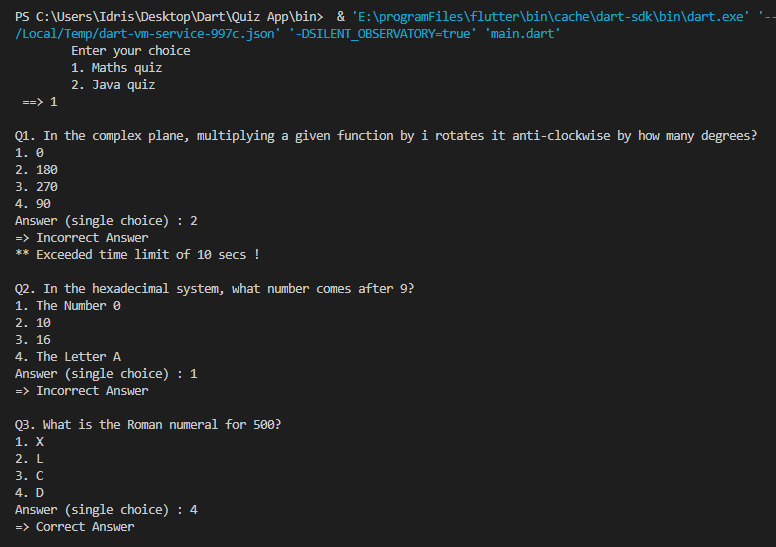
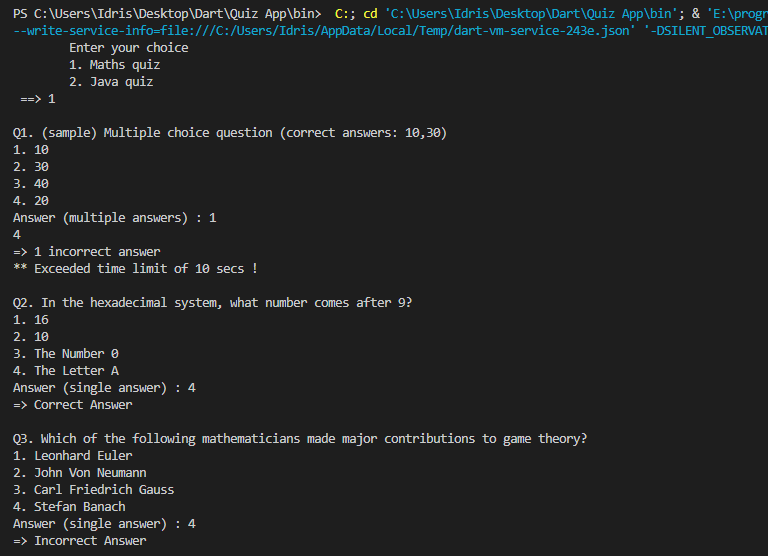
build complete

diff --git a/Topic.dart b/Topic.dart
@@ -5,10 +5,10 @@ import 'QuestionBankJSON.dart' as quesBank;
 import 'QuestionModel.dart' as QuestionBP;
 
 int maxTime = 10; //max time allowed per question in seconds
-int weightage= 1; //max mark for one question (one option)
+int weightage = 1; //max mark for one question (one option)
 
 abstract class Topic {
-  //takes JSON string and returns list of shuffled question according to blueprint
+  //takes JSON string and returns list of shuffled question according to QuestionModel
   List<QuestionBP.Question> loadQuestions(List<dynamic> questions) {
     late List<QuestionBP.Question> questList = [];
 
@@ -36,7 +36,7 @@ abstract class Topic {
     int maxScore = 0, score = 0;
     int quesNo = 0;
 
-    int renderQuest(var questObj) {
+    int renderQuest(var questObj) { //displays question and returns score for each question
       int noOfOpts = questObj.answers.length;
 
       print("\nQ${++quesNo}. ${questObj.question}");
@@ -47,8 +47,9 @@ abstract class Topic {
 
       if (noOfOpts == 0) {
         late int selected;
-        stdout.write("Answer (single choice) : ");
+        stdout.write("Answer (single answer) : ");
         selected = int.parse(stdin.readLineSync()!);
+        maxScore = maxScore + 1;
         if (selected <= 4 &&
             questObj.options[selected - 1] == questObj.answer) {
           // score = correctAns(score);
@@ -58,9 +59,8 @@ abstract class Topic {
           // score = incorrectAns(score);
           print("=> Incorrect Answer");
         }
-        maxScore += 1;
       } else {
-        stdout.write("Answer (multiple choice) : ");
+        stdout.write("Answer (multiple answers) : ");
         List<int> selected = [];
         for (var i = 0; i < noOfOpts; i++) {
           selected.add(int.parse(stdin.readLineSync()!));
@@ -73,6 +73,7 @@ abstract class Topic {
               matched++;
           }
         }
+        maxScore = maxScore + noOfOpts;
         if (matched == noOfOpts) {
           // score = correctAns(score);
           print("=> Correct Answer");
@@ -80,20 +81,18 @@ abstract class Topic {
           // score = incorrectAns(score);
           print("=> ${noOfOpts - matched} incorrect answer");
         }
-        maxScore += noOfOpts;
         return matched;
       }
       return 0;
     }
 
-    for (var questObj in questionList) {
+    for (var questObj in questionList) { // Quiz begins here
       final stopwatch = Stopwatch()..start();
       int scored = renderQuest(questObj);
       int timeTaken = stopwatch.elapsed.inSeconds;
-      if(timeTaken > maxTime){
+      if (timeTaken > maxTime) {
         print("** Exceeded time limit of ${maxTime} secs !");
-      }
-      else{
+      } else {
         score += scored;
       }
     }
@@ -103,15 +102,15 @@ abstract class Topic {
     for (var questObj in questionList) {
       print("\nQ${++quesNo}. ${questObj.question}");
 
-      if(questObj.answers.length == 0)
+      if (questObj.answers.length == 0)
         print("Ans. ${questObj.answer}");
-      else{
+      else {
         for (var ans in questObj.answers) {
-        print("Ans. ${ans}");
+          print("Ans. ${ans}");
         }
       }
     }
-    return {'scored': score*weightage, 'outOf': maxScore*weightage};
+    return {'scored': (score * weightage), 'outOf': (maxScore * weightage)};
   }
 
   Map<String, int> displayQuestions();
@@ -120,7 +119,8 @@ abstract class Topic {
 abstract class Result {
   void getMarks();
 
-  int correctAns(int score); // functions called when option is correct/incorrect
+  int correctAns(
+      int score); // functions called when option is correct/incorrect
   int incorrectAns(int score);
 }
 
@@ -161,11 +161,39 @@ class Math extends Topic implements Result {
   }
 }
 
-class Java {
-  Map<String, dynamic> javaQues = {};
+class Java extends Topic implements Result {
+  var javaQues = json.decode(quesBank.qb.javaQuesJSON)['results'];
 
   Java() {
-    javaQues = json.decode(quesBank.qb.javaQuesJSON) as Map<String, dynamic>;
-    print("inside java");
+    getMarks();
+  }
+
+  @override
+  void getMarks() {
+    Map<String, int> score = displayQuestions();
+
+    print(
+        "\n** Hurray you scored ${score['scored']} out of ${score['outOf']} **\n\n");
+  }
+
+  @override
+  Map<String, int> displayQuestions() {
+    List<QuestionBP.Question> questionList =
+        loadQuestions(javaQues); //renders question from JSON
+    Map<String, int> score = beginQuiz(questionList);
+
+    return score;
+  }
+
+  @override
+  int correctAns(int score) {
+    print("Correct Answer !");
+    return score + 1;
+  }
+
+  @override
+  int incorrectAns(int score) {
+    print("Wrong Answer !");
+    return score;
   }
 }

diff --git a/QuestionBankJSON.dart b/QuestionBankJSON.dart
@@ -6,12 +6,11 @@ class qb {
       "category": "Science: Computers",
       "type": "multiple",
       "difficulty": "medium",
-      "question": "Which coding language was the #1 programming language in terms of usage on GitHub in 2015?",
-      "correct_answer": ["JavaScript"],
+      "question": "(sample) Multiple ans question (correct answers: 20,40)",
+      "correct_answer": ["20","40"],
       "incorrect_answers": [
-        "C#",
-        "Python",
-        "PHP"
+        "10",
+        "30"
       ]
     },
     {
